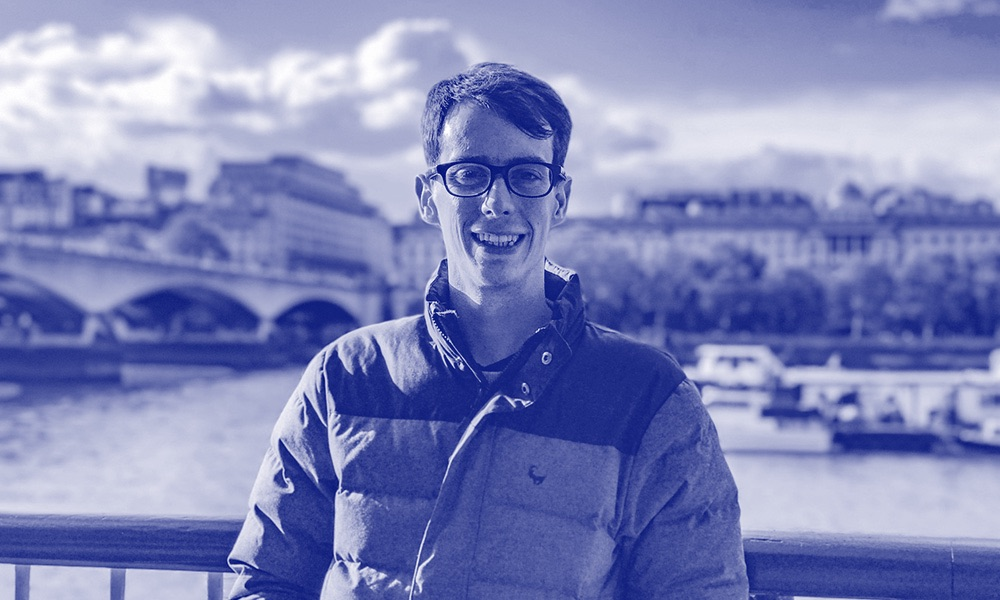
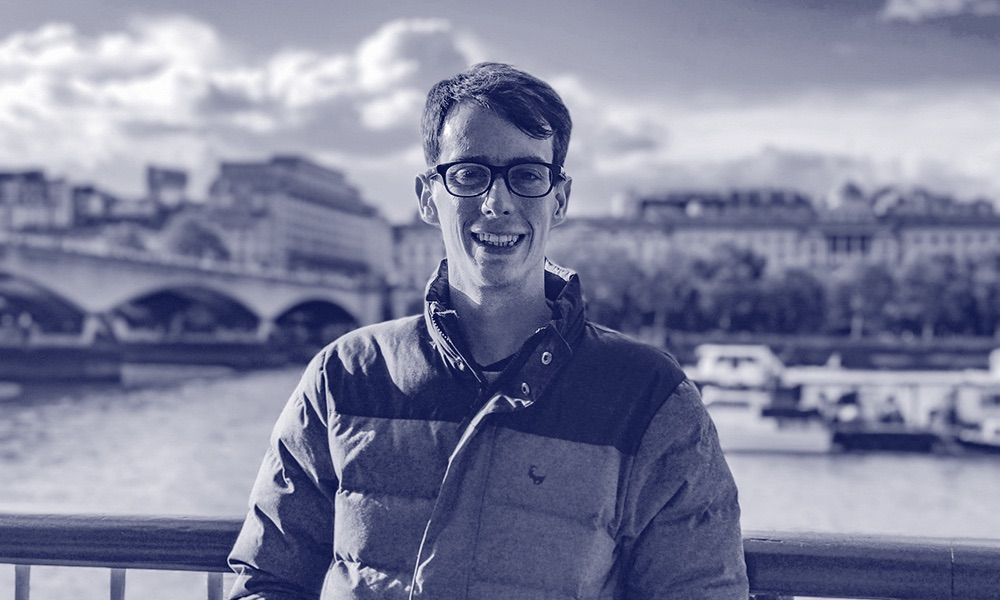
colour tweaks

diff --git a/css/main.scss b/css/main.scss
@@ -79,8 +79,8 @@ $base-line-height: 1.5;
 $spacing-unit:     1.5em;
 
 $text-color:       #FFFFFF;
-$background-color: #0014A0;
-$brand-color:      rgba(255,255,255,0.5);
+$background-color: #00118A;
+$brand-color:      rgba(180,180,180,0.5);
 
 $primary-width:    52em;
 
